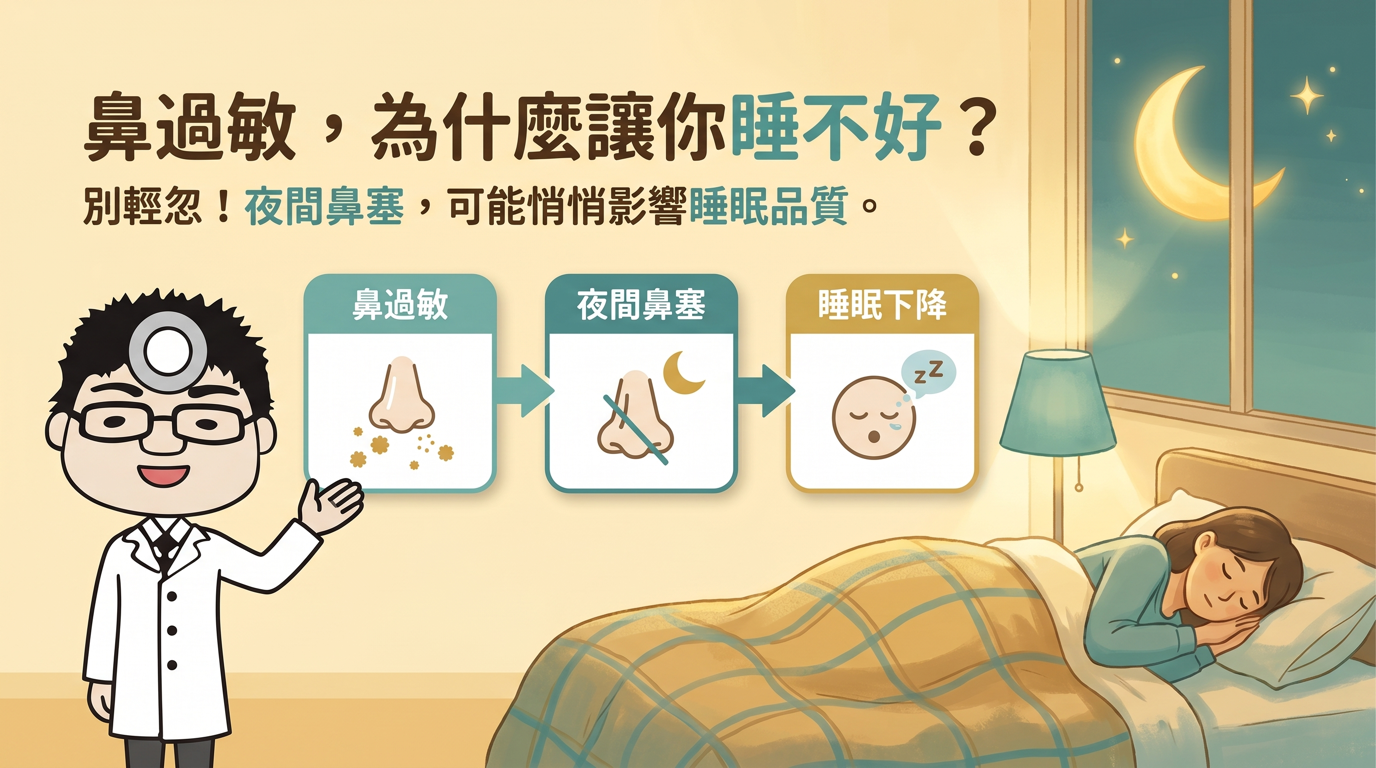
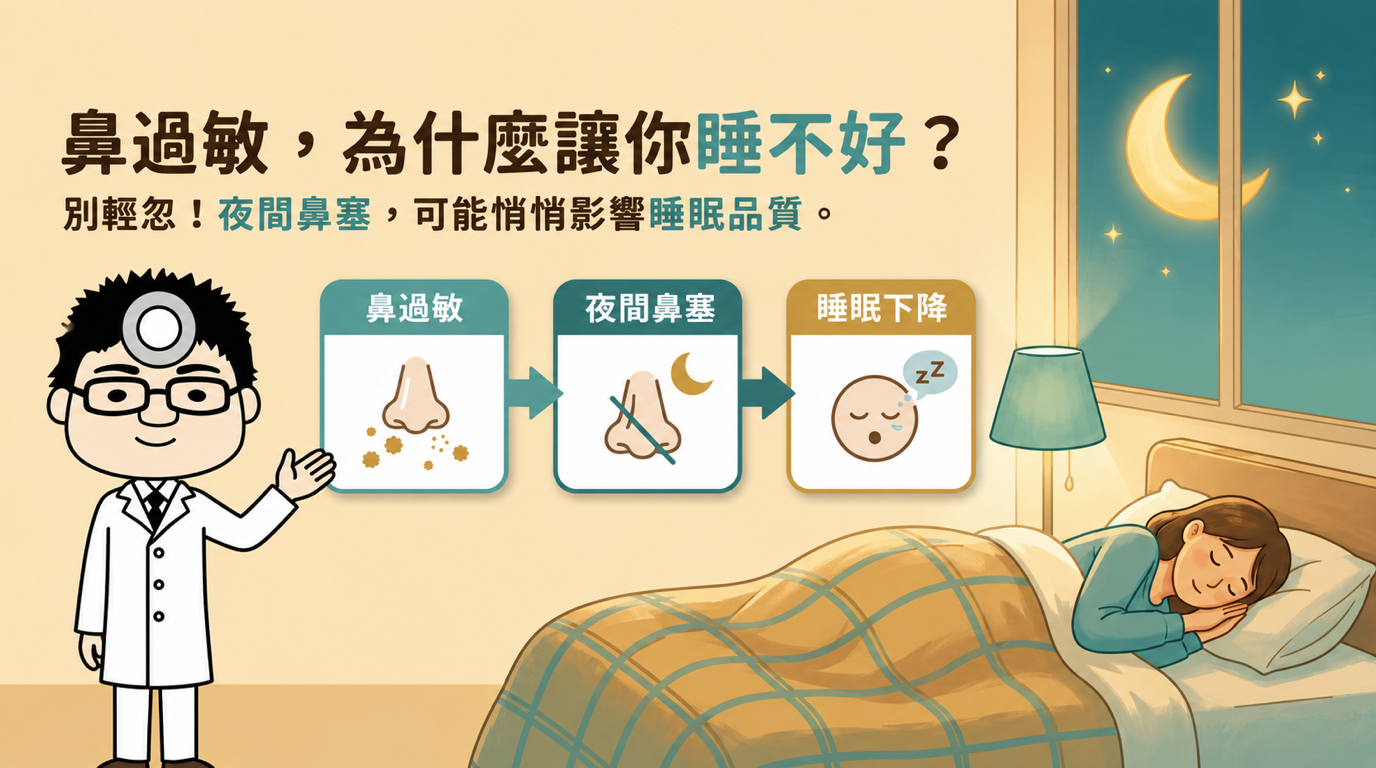
FAQ: replace q1 cover; remove card category pills
q1: downscale the user's redone image to 1376x768 over assets/faq/faq-q1.png,
delete the loose root file, bump cache-bust ?v=2 -> ?v=3 in faq.html and
faq-q1.html.

Pills: delete all 17 <span class="faq-card__tag"> from faq.html and drop the
now-unused .faq-card__tag rule from site.css. h2 is now the card body's first
child; existing body padding keeps spacing clean. .faq-card__more and the
detail-page .tag spans untouched.

diff --git a/faq.html b/faq.html
@@ -298,10 +298,9 @@
 
         <a class="faq-card reveal" href="faq-q1.html">
           <figure class="photo-zone photo-zone--16x9 photo-zone--sm photo-zone--filled faq-card__media">
-            <img src="assets/faq/faq-q1.png?v=2" alt="診所醫師角色搭配夜間鼻塞影響睡眠的情境插圖，呈現鼻過敏與睡眠品質的關係" width="1376" height="768" loading="lazy" decoding="async">
+            <img src="assets/faq/faq-q1.png?v=3" alt="診所醫師角色搭配夜間鼻塞影響睡眠的情境插圖，呈現鼻過敏與睡眠品質的關係" width="1376" height="768" loading="lazy" decoding="async">
           </figure>
           <div class="faq-card__body">
-            <span class="faq-card__tag">鼻過敏・睡眠</span>
             <h2>鼻過敏與睡眠品質的關係</h2>
             <p>許多人以為鼻過敏只是白天打噴嚏、流鼻水、鼻塞的困擾，卻沒有警覺到它其實也會影響夜間的睡眠品質。</p>
             <span class="faq-card__more">閱讀全文 <span aria-hidden="true">→</span></span>
@@ -313,7 +312,6 @@
             <img src="assets/faq/faq-q2.png" alt="診所醫師角色搭配上呼吸道氣流與鼻腔阻塞示意圖，呈現鼻過敏與睡眠呼吸中止的關聯" width="1376" height="768" loading="lazy" decoding="async">
           </figure>
           <div class="faq-card__body">
-            <span class="faq-card__tag">鼻過敏・睡眠</span>
             <h2>鼻過敏與睡眠呼吸中止的相關性</h2>
             <p>許多有鼻過敏的人都注意到，鼻塞嚴重的夜晚特別容易打鼾、睡得不安穩——這兩者之間確實常彼此牽動。</p>
             <span class="faq-card__more">閱讀全文 <span aria-hidden="true">→</span></span>
@@ -325,7 +323,6 @@
             <img src="assets/faq/faq-q3.png" alt="診所醫師角色搭配兒童上呼吸道與腺樣體位置的解剖示意圖" width="1376" height="768" loading="lazy" decoding="async">
           </figure>
           <div class="faq-card__body">
-            <span class="faq-card__tag">兒童睡眠呼吸中止</span>
             <h2>兒童腺樣體增生與睡眠呼吸中止</h2>
             <p>孩子睡覺時打呼、張口呼吸，甚至呼吸聲像是「卡住」一下，在兒童身上有相當比例與腺樣體增生有關。</p>
             <span class="faq-card__more">閱讀全文 <span aria-hidden="true">→</span></span>
@@ -337,7 +334,6 @@
             <img src="assets/faq/faq-q4.png?v=2" alt="診所醫師角色搭配兒童生長曲線圖表與睡眠元素插圖，呈現睡眠與生長的關係" width="1376" height="768" loading="lazy" decoding="async">
           </figure>
           <div class="faq-card__body">
-            <span class="faq-card__tag">兒童睡眠呼吸中止</span>
             <h2>兒童睡眠呼吸中止症與生長曲線</h2>
             <p>家長常關心孩子的生長曲線落在哪個百分位，比較少被注意到的是，夜間的睡眠呼吸狀況其實也可能和生長表現有關。</p>
             <span class="faq-card__more">閱讀全文 <span aria-hidden="true">→</span></span>
@@ -349,7 +345,6 @@
             <img src="assets/faq/faq-q5.png" alt="診所醫師角色搭配顏面發育示意線稿，呈現長期張口呼吸對面容的影響" width="1376" height="768" loading="lazy" decoding="async">
           </figure>
           <div class="faq-card__body">
-            <span class="faq-card__tag">兒童睡眠呼吸中止</span>
             <h2>兒童睡眠呼吸中止與面容變化</h2>
             <p>孩子長期睡覺張口呼吸、嘴巴閉不太起來，久了臉型與牙齒排列也跟著不同，這有時和長期鼻塞與睡眠呼吸問題有關。</p>
             <span class="faq-card__more">閱讀全文 <span aria-hidden="true">→</span></span>
@@ -361,7 +356,6 @@
             <img src="assets/faq/faq-q6.png" alt="診所醫師角色搭配白天課堂疲倦分心的兒童情境插圖，呈現日間表現與睡眠的關聯" width="1376" height="768" loading="lazy" decoding="async">
           </figure>
           <div class="faq-card__body">
-            <span class="faq-card__tag">兒童睡眠呼吸中止</span>
             <h2>兒童睡眠呼吸中止症與注意力不集中、過動的相關關係</h2>
             <p>孩子白天容易分心、坐不住、情緒起伏大，這些表現有時和「晚上沒睡好」有關，較少被聯想在一起。</p>
             <span class="faq-card__more">閱讀全文 <span aria-hidden="true">→</span></span>
@@ -373,7 +367,6 @@
             <img src="assets/faq/faq-q7.png?v=2" alt="診所醫師角色搭配鼻中隔結構示意圖與打鼾聲波元素" width="1376" height="768" loading="lazy" decoding="async">
           </figure>
           <div class="faq-card__body">
-            <span class="faq-card__tag">鼻部結構・打鼾</span>
             <h2>打鼾與鼻中隔彎曲的相關關係</h2>
             <p>不少長期打鼾的人在檢查時被告知「鼻中隔彎曲」，於是好奇：打鼾是不是就是鼻中隔彎曲造成的？關係其實沒那麼單純。</p>
             <span class="faq-card__more">閱讀全文 <span aria-hidden="true">→</span></span>
@@ -385,7 +378,6 @@
             <img src="assets/faq/faq-q8.png" alt="診所醫師角色搭配上呼吸道矢狀切面對比示意圖，呈現清醒與入睡後咽喉變窄" width="1376" height="768" loading="lazy" decoding="async">
           </figure>
           <div class="faq-card__body">
-            <span class="faq-card__tag">成人睡眠呼吸中止</span>
             <h2>睡眠呼吸中止與軟顎、舌根構造的關係</h2>
             <p>長期打鼾或睡眠呼吸中止，問題不一定只在鼻腔——口咽部的軟顎與舌根構造，也常是影響呼吸道是否通暢的關鍵。</p>
             <span class="faq-card__more">閱讀全文 <span aria-hidden="true">→</span></span>
@@ -397,7 +389,6 @@
             <img src="assets/faq/faq-q9.png" alt="診所醫師角色搭配荷爾蒙變化與呼吸道穩定度的概念資訊圖" width="1376" height="768" loading="lazy" decoding="async">
           </figure>
           <div class="faq-card__body">
-            <span class="faq-card__tag">女性・睡眠健康</span>
             <h2>女性打鼾、睡眠呼吸中止與女性荷爾蒙的關係</h2>
             <p>打鼾與睡眠呼吸中止不只發生在男性，女性同樣可能受影響，而且與不同人生階段的荷爾蒙變化有些關聯。</p>
             <span class="faq-card__more">閱讀全文 <span aria-hidden="true">→</span></span>
@@ -409,7 +400,6 @@
             <img src="assets/faq/faq-q10.png?v=2" alt="診所醫師角色搭配下顎前移止鼾裝置的側面示意圖" width="1376" height="768" loading="lazy" decoding="async">
           </figure>
           <div class="faq-card__body">
-            <span class="faq-card__tag">打鼾・止鼾裝置</span>
             <h2>止鼾牙套於睡眠呼吸中止症之應用</h2>
             <p>被診斷睡眠呼吸中止或長期打鼾的人，有時聽過「止鼾牙套」，卻不太清楚它是什麼、適合哪些人——它是處理方式之一，但並非人人適用。</p>
             <span class="faq-card__more">閱讀全文 <span aria-hidden="true">→</span></span>
@@ -421,7 +411,6 @@
             <img src="assets/faq/faq-q11.png" alt="診所醫師角色搭配夜間呼吸中止與胃食道逆流互相牽動的循環示意圖" width="1376" height="768" loading="lazy" decoding="async">
           </figure>
           <div class="faq-card__body">
-            <span class="faq-card__tag">睡眠・胃食道逆流</span>
             <h2>睡眠呼吸中止症與胃食道逆流的相關性</h2>
             <p>有些人長期打鼾、睡不安穩，又常感到胸口灼熱或半夜被嗆醒，卻不一定把這兩件事聯想在一起——兩者其實常彼此影響。</p>
             <span class="faq-card__more">閱讀全文 <span aria-hidden="true">→</span></span>
@@ -433,7 +422,6 @@
             <img src="assets/faq/faq-q12.png" alt="診所醫師角色搭配成人睡眠呼吸中止夜間與白天表現分欄對照資訊圖" width="1376" height="768" loading="lazy" decoding="async">
           </figure>
           <div class="faq-card__body">
-            <span class="faq-card__tag">成人睡眠呼吸中止</span>
             <h2>睡眠呼吸中止症在成人病患的臨床表現</h2>
             <p>很多人以為「會打呼就是、不打呼就沒事」，其實成人睡眠呼吸中止的線索，散落在夜間與白天的許多細節裡。</p>
             <span class="faq-card__more">閱讀全文 <span aria-hidden="true">→</span></span>
@@ -445,7 +433,6 @@
             <img src="assets/faq/faq-q13.png" alt="診所醫師角色搭配成人與兒童睡眠呼吸中止常見表現的對照資訊圖" width="1376" height="768" loading="lazy" decoding="async">
           </figure>
           <div class="faq-card__body">
-            <span class="faq-card__tag">兒童睡眠呼吸中止</span>
             <h2>兒童睡眠呼吸中止症的臨床表現</h2>
             <p>孩子睡得鼾聲不斷，不一定代表睡得香甜——兒童睡眠呼吸中止的表現和成人不同，常藏在白天躁動與夜間張口呼吸等細節裡。</p>
             <span class="faq-card__more">閱讀全文 <span aria-hidden="true">→</span></span>
@@ -457,7 +444,6 @@
             <img src="assets/faq/faq-q14.png?v=2" alt="診所醫師角色搭配胃食道逆流經咽喉、耳咽管到中耳的關聯路徑示意圖" width="1376" height="768" loading="lazy" decoding="async">
           </figure>
           <div class="faq-card__body">
-            <span class="faq-card__tag">中耳・胃食道逆流</span>
             <h2>胃食道逆流與中耳炎是否相關？</h2>
             <p>反覆中耳積液或中耳炎，多數人不會聯想到胃食道逆流——但胃酸逆流刺激耳咽管，有時與中耳問題相關。</p>
             <span class="faq-card__more">閱讀全文 <span aria-hidden="true">→</span></span>
@@ -469,7 +455,6 @@
             <img src="assets/faq/faq-q15.png" alt="診所醫師角色搭配耳咽管與中耳壓力平衡的正常與黏膜腫脹對照示意圖" width="1376" height="768" loading="lazy" decoding="async">
           </figure>
           <div class="faq-card__body">
-            <span class="faq-card__tag">耳悶・胃食道逆流</span>
             <h2>胃食道逆流與耳朵悶塞感是否相關？</h2>
             <p>耳朵悶悶的、像搭飛機般塞住，又一再出現——這類耳悶有時與耳咽管功能或胃食道逆流有關。</p>
             <span class="faq-card__more">閱讀全文 <span aria-hidden="true">→</span></span>
@@ -481,7 +466,6 @@
             <img src="assets/faq/faq-q16.png" alt="診所醫師角色搭配上呼吸道軟組織增厚使睡眠時氣道變窄的對比示意圖" width="1376" height="768" loading="lazy" decoding="async">
           </figure>
           <div class="faq-card__body">
-            <span class="faq-card__tag">體重・睡眠呼吸中止</span>
             <h2>肥胖與睡眠呼吸中止、打呼的相關性</h2>
             <p>談到打呼與睡眠呼吸中止，很多人先想到體重——但兩者是相關而非單一因果，體型纖瘦的人同樣可能發生。</p>
             <span class="faq-card__more">閱讀全文 <span aria-hidden="true">→</span></span>
@@ -493,7 +477,6 @@
             <img src="assets/faq/faq-q17.png?v=2" alt="診所醫師角色搭配平穩鼾聲與停—喘—停間歇型鼾聲的概念波形對照圖" width="1376" height="768" loading="lazy" decoding="async">
           </figure>
           <div class="faq-card__body">
-            <span class="faq-card__tag">打鼾・自我察覺</span>
             <h2>簡易的打呼判讀方式：如何初步察覺睡眠呼吸中止？</h2>
             <p>有些鼾聲背後可能藏著睡眠呼吸中止——留意「停—喘—停」的間歇鼾聲，在就醫前先初步察覺值得注意的徵兆。</p>
             <span class="faq-card__more">閱讀全文 <span aria-hidden="true">→</span></span>

diff --git a/faq-q1.html b/faq-q1.html
@@ -94,7 +94,7 @@
     <div class="wrap">
 
       <figure class="photo-zone photo-zone--16x9 photo-zone--filled faq-article__media reveal">
-        <img src="assets/faq/faq-q1.png?v=2" alt="診所醫師角色搭配夜間鼻塞影響睡眠的情境插圖，呈現鼻過敏與睡眠品質的關係" width="1376" height="768" loading="lazy" decoding="async">
+        <img src="assets/faq/faq-q1.png?v=3" alt="診所醫師角色搭配夜間鼻塞影響睡眠的情境插圖，呈現鼻過敏與睡眠品質的關係" width="1376" height="768" loading="lazy" decoding="async">
       </figure>
 
       <article class="faq-article faq-article--solo reveal">

diff --git a/assets/site.css b/assets/site.css
@@ -635,17 +635,6 @@ a.loc:hover { border-color: rgba(255,255,255,0.4); background: rgba(255,255,255,
   flex: 1;
   padding: var(--s-5);
 }
-.faq-card__tag {
-  align-self: flex-start;
-  font-size: 0.74rem;
-  letter-spacing: 0.06em;
-  font-weight: 600;
-  color: var(--primary-deep);
-  background: var(--primary-soft);
-  border-radius: 999px;
-  padding: 0.25rem 0.7rem;
-  margin-bottom: var(--s-3);
-}
 .faq-card h2 {
   font-family: "Noto Serif TC", serif;
   font-size: 1.2rem;

diff --git a/progress.md b/progress.md
@@ -2,7 +2,16 @@
 
 Orientation note for the next session. See `site-spec.md` for the full content brief (source of truth) and `CLAUDE.md` for the rules (design rules + compliance live there).
 
-_Last updated: 2026-06-08 (session 34)_
+_Last updated: 2026-06-08 (session 35)_
+
+## 🗓 2026-06-08 (session 35) — 衛教專欄：換 q1 封面為重做版；移除卡片分類膠囊（pill chips）
+
+兩項變更。動到 `faq.html`、`faq-q1.html`、`assets/site.css`、`assets/faq/faq-q1.png`，並刪掉誤放在 repo 根目錄的 `faq q1 image redone.png`。
+
+- **q1 封面換成使用者重做版。** 使用者把 `faq q1 image redone.png`（1672×941，16:9）放在 repo 根目錄；以 `sips -z 768 1376` 下採樣到 **1376×768** 後覆寫 `assets/faq/faq-q1.png`（驗為真 PNG、1376×768、約 1.27MB），再 `git rm` 掉根目錄那張散檔（served 圖只放 `assets/`，不放根目錄）。cache-bust 由 `faq-q1.png?v=2` 升為 **`?v=3`**（`faq.html`＋`faq-q1.html` 各一處）讓新圖顯示。
+- **移除卡片分類膠囊。** `faq.html` 17 張卡片 `.faq-card__body` 第一個子元素的 `<span class="faq-card__tag">…</span>`（小綠圓角膠囊，如 鼻過敏・睡眠、兒童睡眠呼吸中止、中耳・胃食道逆流）**全數刪除**；`assets/site.css` 移除已無用的 `.faq-card__tag{}` 規則（原 ~638 行）。`<h2>` 成為 body 第一個子元素，靠 `.faq-card__body` 既有 `padding:var(--s-5)` 留白，桌機＋手機預覽間距乾淨、未另加 margin。`.faq-card__more`（閱讀全文）與詳情頁 `.tag`（總院／手術中心）等未動。
+- **驗證（本機 `http://localhost:8000`，Chrome headless 桌機 1280／手機 390）。** `faq.html` 17 張卡片皆無膠囊、間距乾淨；q1 新封面滿版填滿卡片框、圓角裁切、無溢出／光暈／漸層；`faq-q1.html` 詳情頁亦顯示新封面。
+- **clinic-audit（report-only）全 PASS**：§九 無禁語（`最` 命中為 最新 nav）／無費用／頁尾免責聲明齊全；設計規則變更檔無 gradient／glow／`transition:all`，`.faq-card__tag` 無殘留引用；無障礙 17 張 `<img>` 皆具 alt、標題 1 h1＋17 h2 無跳級。
 
 ## 🗓 2026-06-08 (session 34) — 修正 faq.html 卡片封面 padding：`--filled` 現勝過 `--sm`，封面圖滿版填滿卡片框
 
